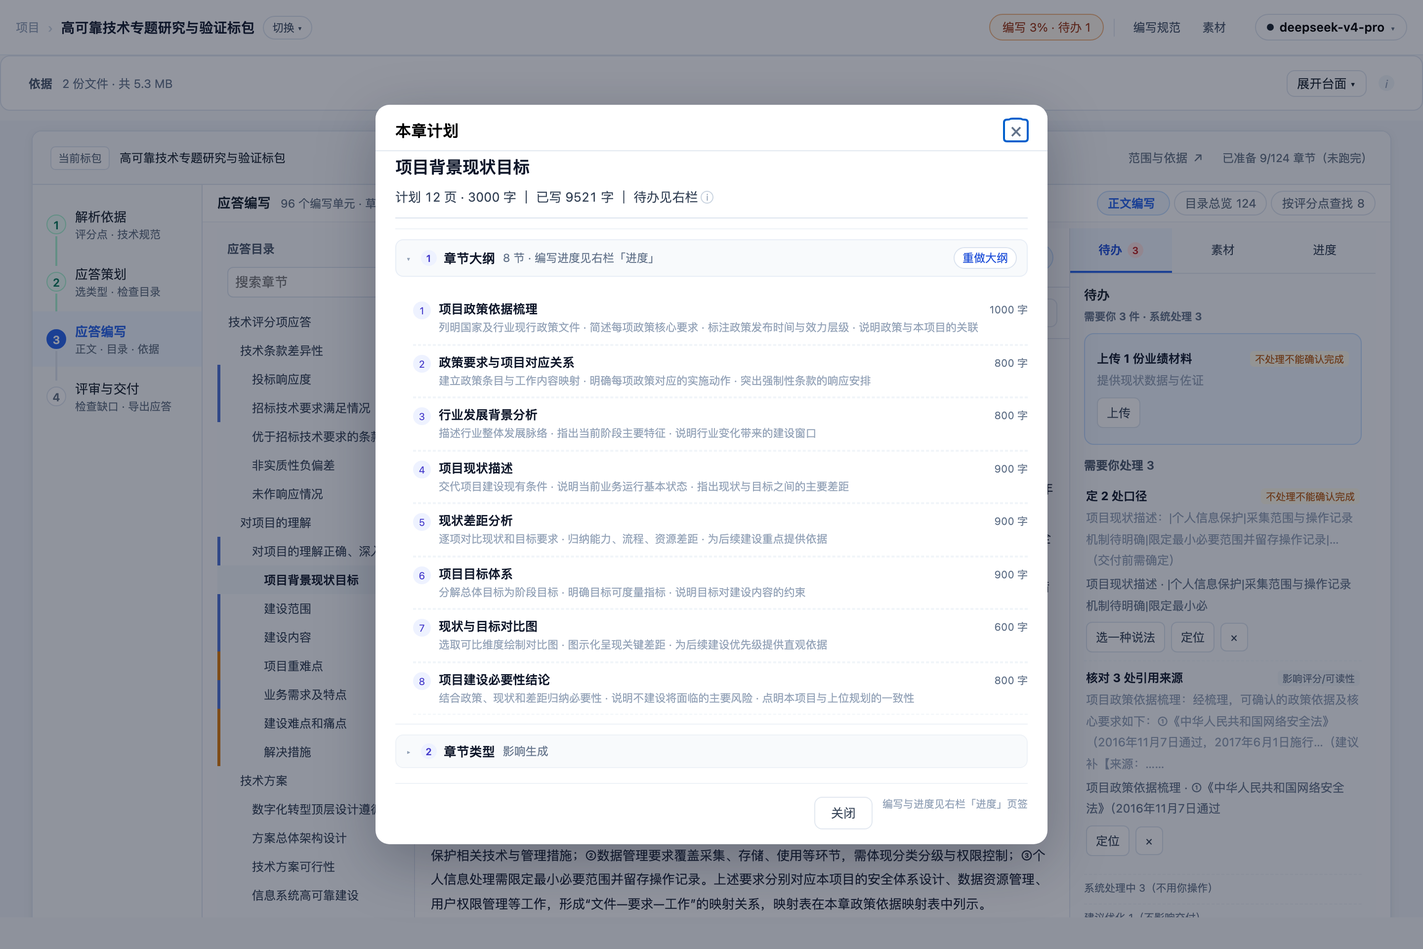
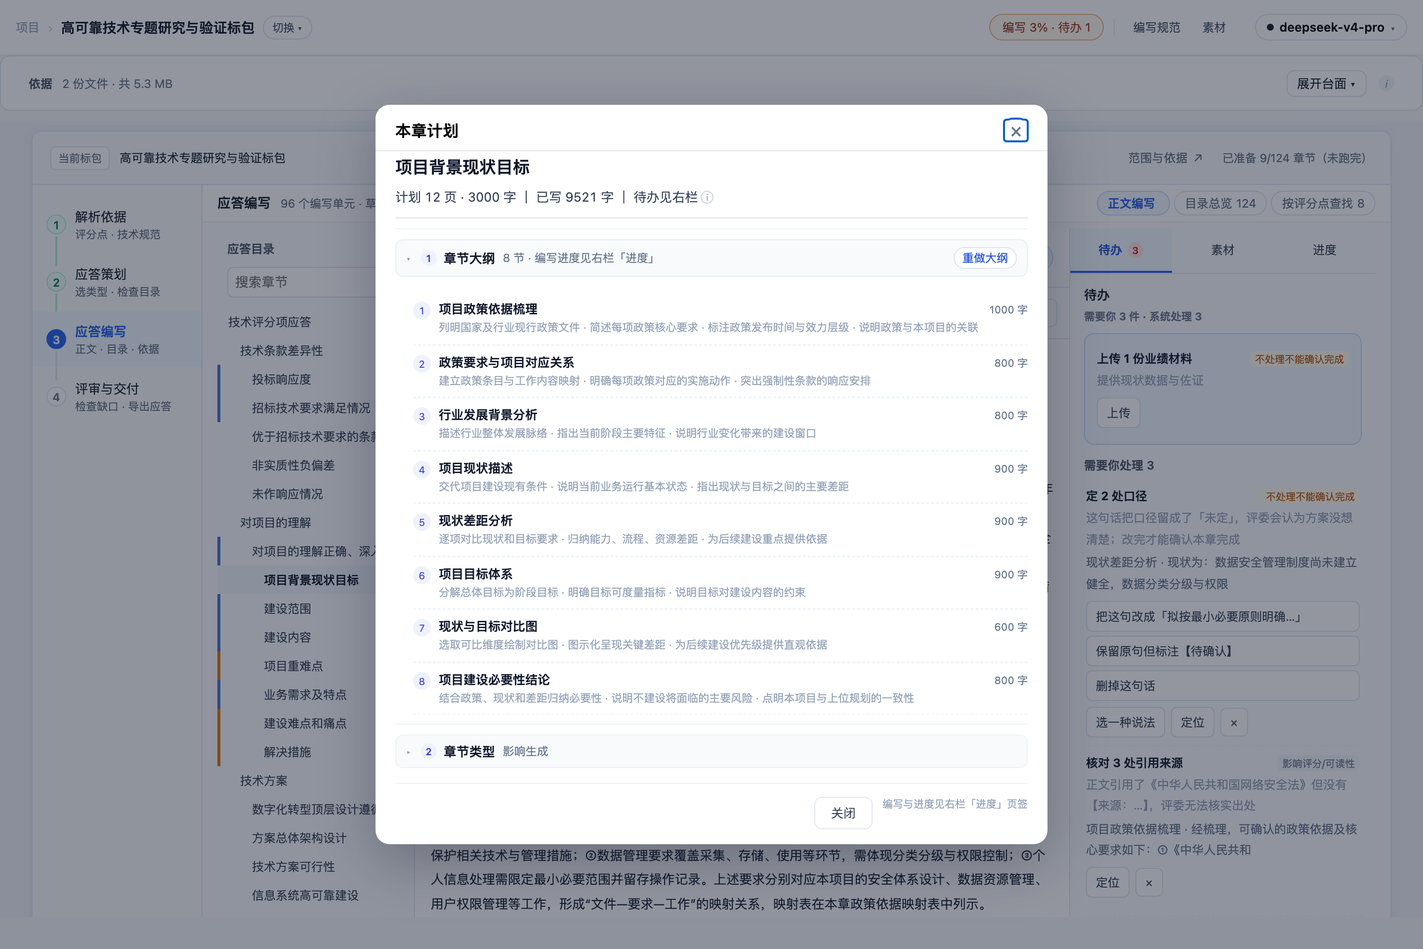
fix(待办可读性): 系统任务说清"现在就能做"、卡里直接给原句+改法、定位到正文并高亮
用户反馈三点，逐条修：
① 底部提示「系统补 11 条依据（在下次生成时自动处理）」看不懂，不知道为什么必须下次；
② 第一张「上传」看得懂，下面「定 2 处口径」「核对 3 处引用来源」看不懂；
③ 点定位没定位到正文当前位置，看不出这段文字在哪、存在什么问题。

## ① 系统任务改成"现在就能做"
- 「系统补 11 条依据」→「补 11 条依据原文 [现在去查]」
  why 改为：正文引用了这些文件但没取到原文，无法核验条款；点「现在去查」系统逐条检索，
  查到的自动挂到本章，查不到的会告诉你只能由你提供
- 「系统生成表格/图示」→「生成表格「X」[现在生成]」（点击直接打开生成/调整面板）
- 「系统补写」→「补写「X」[现在补写]」（点击立即流式补写该节）
- 「系统统一表述」→「统一 N 处表述 [现在统一]」（点击立即替换并写版本，可撤销）

## ② 卡里直接看到"哪句话、什么问题、怎么改"
- 后端 `decision_items`：**跳过表格行**（不再把单元格拼成"原句"）、补 `sentence`/`section`
  「口径未定」现在给 2~3 个候选：改为「拟按最小必要原则明确…」/ 保留并标【待确认】/ 删掉这句
- 决定卡带上 **原句** + **why**（"这句话把口径留成了未定，评委会认为方案没想清楚；改完才能确认本章完成"）
- 前端把 **3 个候选直接铺在卡上**，点一下就走服务端 `todo/apply`（替换 + 写版本 + 重算）
- 核对卡 why 改为「正文引用了《…》但没有【来源：…】，评委无法核实出处」

## ③ 定位到正文并高亮
- 点「定位」→ 切到**预览**态 → 找到原句所在段落 → 滚动到居中 → **黄色高亮 4 秒**（同时点亮所属小节标题）
- 状态条：「已定位到正文：现状差距分析 · 第 7 段 —— 原句「…」，请改成你选的说法」
- 实测：`hitCount: 1`、`previewVisible: true`、状态条含段号与原句

## 验证
后端 1009 passed · 界面 54/54（v389）

Changed region(s): [[0.75, 0.5312, 0.9688, 0.9375]]

diff --git a/frontend/assets/mode-outline.js b/frontend/assets/mode-outline.js
@@ -2,9 +2,9 @@
    抽成模块的目的：两段内联脚本有 90 个同名顶层标识符 + 18 个重复 DOM id，
    同页拼接必然互相覆盖；各自成为一个模块即各自一个作用域。
    本文件在抽取时**未改任何逻辑**。 */
-import {mountChapterStudio, exportDocument} from './chapter-studio.mjs?v=20261016-v387';
-import { api } from './api.js?v=20261016-v387';
-import { specContentHtml } from './spec-content.mjs?v=20261016-v387';
+import {mountChapterStudio, exportDocument} from './chapter-studio.mjs?v=20261016-v389';
+import { api } from './api.js?v=20261016-v389';
+import { specContentHtml } from './spec-content.mjs?v=20261016-v389';
 // 顶栏（项目名旁边那行「第 N 轮 · ...」）由共享壳 workspace.js 渲染。这里要把它
 // 改成**页面自己的真实状态**：checkpoint 的 stage 在准备中/编写准备完成后都停在
 // outline_review，只看它的话顶栏永远显示"待确认目录"（实测就是这个问题）。
@@ -12,7 +12,7 @@ import { workspace, renderWorkspaceChrome,
          REQUIREMENT_ROLES, SELECTABLE_REQUIREMENT_ROLES, ROLE_LABEL_SHARED, ROLE_HINT_SHARED,
          roleMismatchWarning, inferRoleFromFilename,
          uiAlert, uiConfirm,
-       } from './workspace.js?v=20261016-v387';
+       } from './workspace.js?v=20261016-v389';
 import { resolvePackageScope, buildOutlineTree, isOrphanedRun, activeStages, instructionDirty, newOutlineId, outlineSubtreeRange,
          moveOutlineNode, indentOutlineNode, outdentOutlineNode,
          moveManyOutlineNodes, indentManyOutlineNodes, outdentManyOutlineNodes,
@@ -31,7 +31,7 @@ import { resolvePackageScope, buildOutlineTree, isOrphanedRun, activeStages, ins
          // 章节状态投影：素材库 / 方案编辑 / 覆盖矩阵共用同一份判定（不再各算各的）
          chapterStage, chapterBadges, filterChapters, chapterFilterCounts,
          CHAPTER_STAGE_LABELS, evidenceByChapter, expandVisibleWithAncestors
-       } from './workspace-model.mjs?v=20261016-v387';
+       } from './workspace-model.mjs?v=20261016-v389';
 
 const params = new URLSearchParams(location.search);
 // projectId **只取数字部分**：链接被误写成 `?projectId=19**(Cmd+Shift+R)`（连带说明文字）
@@ -180,7 +180,7 @@ document.head.insertAdjacentHTML('beforeend', `<style>
 // 左栏章节树：行标记与「方案编辑」共用一份（2026-10-13 左栏归一）。
 // 此前两侧各拼一套（.ot-row / .doc-outline-item），数据投影虽已共用，
 // 但标记重复维护会漂移（workspace-model.mjs 注释里记着 "#undefined" 那次）。
-import { chapterNode, chapterBadgesHtml as sharedBadgesHtml } from './chapter-tree.mjs?v=20261016-v387';
+import { chapterNode, chapterBadgesHtml as sharedBadgesHtml } from './chapter-tree.mjs?v=20261016-v389';
 const blocksEmpty = document.getElementById('blocks-empty');
 const sidebarToc  = document.getElementById('sidebar-toc');
 const ringFill    = document.getElementById('ring-fill');

diff --git a/frontend/workbench.html b/frontend/workbench.html
@@ -4,7 +4,7 @@
     <meta charset="UTF-8" />
     <meta name="viewport" content="width=device-width, initial-scale=1.0" />
     <title>智能应标 · 材料撰写</title>
-    <link rel="stylesheet" href="./assets/styles.css?v=20261016-v387" />
+    <link rel="stylesheet" href="./assets/styles.css?v=20261016-v389" />
     <style>
       /* Outline pane */
       .workspace-shell .outline-pane {
@@ -2055,7 +2055,7 @@
     </style>
     <!-- Markdown 渲染（用于预览模式） -->
     <script src="https://cdn.jsdelivr.net/npm/marked@12.0.0/marked.min.js"></script>
-  <link rel="stylesheet" href="./assets/workspace.css?v=20261016-v387" />
+  <link rel="stylesheet" href="./assets/workspace.css?v=20261016-v389" />
   </head>
   <body>
   <script>
@@ -2500,18 +2500,18 @@
       </main>
     </div>
 
-    <script type="module" src="./assets/workbench.js?v=20261016-v387"></script>
+    <script type="module" src="./assets/workbench.js?v=20261016-v389"></script>
     <script type="module">
-      import { GenerateSession } from './assets/generate-session.js?v=20261016-v387';
-      import { initContextPanel } from './assets/context-panel.js?v=20261016-v387';
-      import { api } from './assets/api.js?v=20261016-v387';
-      import { request as workspaceRequest, refreshWorkspace, workspace, confirmChapterAction } from './assets/workspace.js?v=20261016-v387';
+      import { GenerateSession } from './assets/generate-session.js?v=20261016-v389';
+      import { initContextPanel } from './assets/context-panel.js?v=20261016-v389';
+      import { api } from './assets/api.js?v=20261016-v389';
+      import { request as workspaceRequest, refreshWorkspace, workspace, confirmChapterAction } from './assets/workspace.js?v=20261016-v389';
       // 提炼字段枚举 + 素材依据的**渲染片段**与 project-init 共用（见 workspace-model.mjs 注释）：
       // 性质徽标与出处行的实现在那边只有一份，两个页面不再各写一套（曾经因此漂移出
       // "每行显示 #undefined"）。
       import { CONSTRAINT_LEVELS, constraintLevelLabel,
                evidenceKindBadgeHtml, evidenceSourceLineHtml, evidenceSnippet,
-               chapterStage, CHAPTER_STAGE_LABELS } from './assets/workspace-model.mjs?v=20261016-v387';
+               chapterStage, CHAPTER_STAGE_LABELS } from './assets/workspace-model.mjs?v=20261016-v389';
       initContextPanel();
 
       // 素材抽屉：默认收起（写作时右栏就是正文本身），点工具栏「素材 n ▸」打开；
@@ -5575,6 +5575,6 @@
       })();
     })();
     </script>
-  <script type="module" src="./assets/workspace.js?v=20261016-v387"></script>
+  <script type="module" src="./assets/workspace.js?v=20261016-v389"></script>
   </body>
 </html>

diff --git a/frontend/three-mode.html b/frontend/three-mode.html
@@ -4,9 +4,9 @@
     <meta charset="UTF-8" />
     <meta name="viewport" content="width=device-width, initial-scale=1.0" />
     <title>AiBidding · Workbench Init State</title>
-    <link rel="stylesheet" href="./assets/response-outline.css?v=20261016-v387" />
-    <link rel="stylesheet" href="./assets/chapter-studio.css?v=20261016-v387" />
-    <link rel="stylesheet" href="./assets/styles.css?v=20261016-v387" />
+    <link rel="stylesheet" href="./assets/response-outline.css?v=20261016-v389" />
+    <link rel="stylesheet" href="./assets/chapter-studio.css?v=20261016-v389" />
+    <link rel="stylesheet" href="./assets/styles.css?v=20261016-v389" />
     <style>
 /* ── 三栏布局 ── */
 .init-layout {
@@ -3350,8 +3350,8 @@ body[data-view="matching"] .match-detail { display: block; }
   body[data-view="editor"] .ws-editor-layout { flex: 1 1 auto; min-height: 0; }
 
 </style>
-  <link rel="stylesheet" href="./assets/workspace.css?v=20261016-v387" />
-  <link rel="stylesheet" href="./assets/ui.css?v=20261016-v387" />   <!-- 组件最小集：最后加载以统一历史类名 -->
+  <link rel="stylesheet" href="./assets/workspace.css?v=20261016-v389" />
+  <link rel="stylesheet" href="./assets/ui.css?v=20261016-v389" />   <!-- 组件最小集：最后加载以统一历史类名 -->
   </head>
   <body data-view="outline" data-modes="outline,matching,editor">
     <div class="workspace-shell">
@@ -4062,16 +4062,16 @@ body[data-view="matching"] .match-detail { display: block; }
         if (skel) skel.hidden = true;
       }, 6000);
     </script>
-    <script type="module" src="./assets/workbench.js?v=20261016-v387"></script>
-    <script type="module" src="./assets/mode-dispatch.js?v=20261016-v387"></script>
+    <script type="module" src="./assets/workbench.js?v=20261016-v389"></script>
+    <script type="module" src="./assets/mode-dispatch.js?v=20261016-v389"></script>
     <!-- 动态 import：失败可捕获并上报（静态 import 失败无法捕获，会让整页静默不执行） -->
     <script type="module">
-      for (const mod of ['./assets/mode-outline.js?v=20261016-v387',
-                        './assets/mode-editor.js?v=20261016-v387']) {
+      for (const mod of ['./assets/mode-outline.js?v=20261016-v389',
+                        './assets/mode-editor.js?v=20261016-v389']) {
         try { await import(mod); }
         catch (err) { window.__bootErrors.push(`模块加载失败 ${mod}：${err?.message || err}`); }
       }
     </script>
-  <script type="module" src="./assets/workspace.js?v=20261016-v387"></script>
+  <script type="module" src="./assets/workspace.js?v=20261016-v389"></script>
   </body>
 </html>

diff --git a/frontend/project-init.html b/frontend/project-init.html
@@ -4,7 +4,7 @@
     <meta charset="UTF-8" />
     <meta name="viewport" content="width=device-width, initial-scale=1.0" />
     <title>AiBidding · Workbench Init State</title>
-    <link rel="stylesheet" href="./assets/styles.css?v=20261016-v387" />
+    <link rel="stylesheet" href="./assets/styles.css?v=20261016-v389" />
     <style>
 /* ── 三栏布局 ── */
 .init-layout {
@@ -889,7 +889,7 @@ body[data-view="matching"] .match-detail { display: block; }
   background: #eff6ff;
 }
     </style>
-  <link rel="stylesheet" href="./assets/workspace.css?v=20261016-v387" />
+  <link rel="stylesheet" href="./assets/workspace.css?v=20261016-v389" />
   </head>
   <body data-view="outline">
   <script>
@@ -1097,14 +1097,14 @@ body[data-view="matching"] .match-detail { display: block; }
     </div>
 
     <script type="module">
-import { api } from './assets/api.js?v=20261016-v387';
+import { api } from './assets/api.js?v=20261016-v389';
 // 顶栏（项目名旁边那行「第 N 轮 · ...」）由共享壳 workspace.js 渲染。这里要把它
 // 改成**页面自己的真实状态**：checkpoint 的 stage 在提炼中/提炼完成后都停在
 // outline_review，只看它的话顶栏永远显示"待确认目录"（实测就是这个问题）。
 import { workspace, renderWorkspaceChrome,
          REQUIREMENT_ROLES, ROLE_LABEL_SHARED, ROLE_HINT_SHARED,
          roleMismatchWarning, inferRoleFromFilename,
-       } from './assets/workspace.js?v=20261016-v387';
+       } from './assets/workspace.js?v=20261016-v389';
 import { buildOutlineTree, isOrphanedRun, activeStages, instructionDirty, newOutlineId, outlineSubtreeRange,
          moveOutlineNode, indentOutlineNode, outdentOutlineNode,
          removeOutlineSubtree, insertSiblingAfter, insertChildOf,
@@ -1118,7 +1118,7 @@ import { buildOutlineTree, isOrphanedRun, activeStages, instructionDirty, newOut
          // 章节状态投影：素材库 / 方案编辑 / 覆盖矩阵共用同一份判定（不再各算各的）
          chapterStage, chapterBadges, filterChapters, chapterFilterCounts,
          CHAPTER_STAGE_LABELS, evidenceByChapter, expandVisibleWithAncestors
-       } from './assets/workspace-model.mjs?v=20261016-v387';
+       } from './assets/workspace-model.mjs?v=20261016-v389';
 
 const params = new URLSearchParams(location.search);
 const projectId = params.get('projectId');
@@ -4957,6 +4957,6 @@ bindMatchDetailActions();
   });
 })();
     </script>
-  <script type="module" src="./assets/workspace.js?v=20261016-v387"></script>
+  <script type="module" src="./assets/workspace.js?v=20261016-v389"></script>
   </body>
 </html>

diff --git a/frontend/assets/mode-editor.js b/frontend/assets/mode-editor.js
@@ -2,13 +2,13 @@
    抽成模块的目的：两段内联脚本有 90 个同名顶层标识符 + 18 个重复 DOM id，
    同页拼接必然互相覆盖；各自成为一个模块即各自一个作用域。
    本文件在抽取时**未改任何逻辑**。 */
-import { GenerateSession } from './generate-session.js?v=20261016-v387';
+import { GenerateSession } from './generate-session.js?v=20261016-v389';
 // 左栏章节树：与「要求与大纲 / 素材库」共用一份行标记（2026-10-13 左栏归一）
-import { chapterNode, renderChapterTree } from './chapter-tree.mjs?v=20261016-v387';
-import { initContextPanel } from './context-panel.js?v=20261016-v387';
-import { api } from './api.js?v=20261016-v387';
+import { chapterNode, renderChapterTree } from './chapter-tree.mjs?v=20261016-v389';
+import { initContextPanel } from './context-panel.js?v=20261016-v389';
+import { api } from './api.js?v=20261016-v389';
 import { request as workspaceRequest, refreshWorkspace, workspace, confirmChapterAction ,
-         uiAlert, uiConfirm} from './workspace.js?v=20261016-v387';
+         uiAlert, uiConfirm} from './workspace.js?v=20261016-v389';
 
 // ── 本章要求 bar 的应答条目缓存 ──────────────────────────────
 // 必须**声明在模块最前面**：它原本声明在文件中部，而模块之间存在循环依赖
@@ -21,7 +21,7 @@ let responseItemsByBlock = {};
 // "每行显示 #undefined"）。
 import { CONSTRAINT_LEVELS, constraintLevelLabel,
          evidenceKindBadgeHtml, evidenceSourceLineHtml, evidenceSnippet,
-         chapterStage, CHAPTER_STAGE_LABELS } from './workspace-model.mjs?v=20261016-v387';
+         chapterStage, CHAPTER_STAGE_LABELS } from './workspace-model.mjs?v=20261016-v389';
 initContextPanel();
 
 // 素材抽屉：默认收起（写作时右栏就是正文本身），点工具栏「素材 n ▸」打开；

diff --git a/frontend/project-intake.html b/frontend/project-intake.html
@@ -3,7 +3,7 @@
 <head>
   <meta charset="utf-8"><meta name="viewport" content="width=device-width,initial-scale=1">
   <title>项目准备 · 智能应标</title>
-  <link rel="stylesheet" href="/assets/styles.css?v=20261016-v387">
+  <link rel="stylesheet" href="/assets/styles.css?v=20261016-v389">
   <style>
     body{margin:0;background:#f7f8fa;color:#17202a;font-family:Inter,"PingFang SC",sans-serif}
     .shell{max-width:1120px;margin:auto;padding:28px}.top{display:flex;justify-content:space-between;align-items:center;margin-bottom:22px}
@@ -32,4 +32,4 @@
 </main>
 <dialog id="package-editor"><form id="package-form"><h2>编辑投标对象</h2><p class="hint">仅在识别有误时修改；名称可留空。</p><input id="edit-id" type="hidden"><label>对象类型<select id="edit-kind"><option value="package">标包</option><option value="section">标段</option><option value="target">独立标的</option></select></label><label>所属标的编号<input id="edit-target"></label><label>标包 / 标段编号<input id="edit-code"></label><label>完整名称<input id="edit-name" maxlength="300"></label><div class="actions"><button type="button" id="cancel-edit">取消</button><button class="primary" type="submit">保存</button></div></form></dialog>
 <dialog id="merge-dialog"><form id="merge-form"><h2>合并重复候选</h2><p class="hint">将当前候选的证据合并到以下保留项。已有运行成果的候选不能合并，保留项需要重新核验。</p><input id="merge-source" type="hidden"><label>保留的投标对象<select id="merge-destination"></select></label><div class="actions"><button type="button" id="cancel-merge">取消</button><button type="submit" class="primary">确认合并</button></div></form></dialog>
-<script type="module" src="/assets/intake.js?v=20261016-v387"></script></body></html>
+<script type="module" src="/assets/intake.js?v=20261016-v389"></script></body></html>

diff --git a/frontend/review.html b/frontend/review.html
@@ -4,16 +4,16 @@
     <meta charset="UTF-8" />
     <meta name="viewport" content="width=device-width, initial-scale=1.0" />
     <title>AiBidding · 质量检查</title>
-    <link rel="stylesheet" href="./assets/styles.css?v=20261016-v387" />
-    <link rel="stylesheet" href="./assets/review.css?v=20261016-v387" />
-  <link rel="stylesheet" href="./assets/workspace.css?v=20261016-v387" />
+    <link rel="stylesheet" href="./assets/styles.css?v=20261016-v389" />
+    <link rel="stylesheet" href="./assets/review.css?v=20261016-v389" />
+  <link rel="stylesheet" href="./assets/workspace.css?v=20261016-v389" />
   <style>
     /* 返回作业面板：与项目名同级的次级入口 */
     .back-to-panel { margin-left:10px; font-size:12.5px; color:var(--muted); text-decoration:none;
       border:1px solid var(--line); border-radius:8px; padding:3px 10px; }
     .back-to-panel:hover { color:var(--text); background:var(--bg-2); }
   </style>
-  <link rel="stylesheet" href="./assets/ui.css?v=20261016-v387" />   <!-- 组件最小集：最后加载以统一历史类名 -->
+  <link rel="stylesheet" href="./assets/ui.css?v=20261016-v389" />   <!-- 组件最小集：最后加载以统一历史类名 -->
   </head>
   <body>
     <div class="workspace-shell">
@@ -96,7 +96,7 @@
       </main>
     </div>
 
-    <script type="module" src="./assets/review.js?v=20261016-v387"></script>
-  <script type="module" src="./assets/workspace.js?v=20261016-v387"></script>
+    <script type="module" src="./assets/review.js?v=20261016-v389"></script>
+  <script type="module" src="./assets/workspace.js?v=20261016-v389"></script>
   </body>
 </html>

diff --git a/frontend/assets/workbench.js b/frontend/assets/workbench.js
@@ -1,12 +1,12 @@
-import {workspace, subscribe, refreshWorkspace, workspaceUrl, confirmChapterAction, openDialog, showHistory, statusLabels, esc} from './workspace.js?v=20261016-v387';
+import {workspace, subscribe, refreshWorkspace, workspaceUrl, confirmChapterAction, openDialog, showHistory, statusLabels, esc} from './workspace.js?v=20261016-v389';
 // 章节状态/依据徽标与「素材库」共用一份投影（同一棵目录树，四个环节都一样）
-import {chapterBadges, parseEvidence} from './workspace-model.mjs?v=20261016-v387';
+import {chapterBadges, parseEvidence} from './workspace-model.mjs?v=20261016-v389';
 // 左栏章节树：**三个模式共用一份**行标记（2026-10-13 归一）。
 // 此前编辑器侧自己拼 `.doc-outline-item`、大纲侧拼 `.ot-row`，是两套实现；
 // 数据投影本就共用（workspace-model），这里把标记也收敛掉。
 // 行上仍保留 `doc-outline-item` 类与 data-block-id 属性，兼容 mode-editor.js 里
 // 既有的 10 处选择器（改动面最小化）。
-import {chapterNode, renderChapterTree, chapterBadgesHtml} from './chapter-tree.mjs?v=20261016-v387';
+import {chapterNode, renderChapterTree, chapterBadgesHtml} from './chapter-tree.mjs?v=20261016-v389';
 // 左栏树的**唯一宿主**：由 mode-dispatch 在模式切换时把 #blocks-list 搬到当前模式的
 // 左栏位置。归一前这里是 `.doc-outline`，与大纲侧 `#blocks-list` 各渲一棵（实测
 // .ot-node 有 120 个 = 两棵各 60）。动态解析而不是加载时捕获，就是为了让宿主可搬。

diff --git a/frontend/projects.html b/frontend/projects.html
@@ -4,7 +4,7 @@
     <meta charset="UTF-8" />
     <meta name="viewport" content="width=device-width, initial-scale=1.0" />
     <title>智能应标 · 项目列表</title>
-    <link rel="stylesheet" href="./assets/styles.css?v=20261016-v387" />
+    <link rel="stylesheet" href="./assets/styles.css?v=20261016-v389" />
     <style>
       /* ── 页头 ── */
       .app-header {
@@ -613,7 +613,7 @@
       .btn-api-save:disabled { opacity: 0.45; cursor: default; }
       .btn-api-save:not(:disabled):hover { opacity: 0.88; }
     </style>
-    <link rel="stylesheet" href="./assets/ui.css?v=20261016-v387" />   <!-- 组件最小集：最后加载以统一历史类名 -->
+    <link rel="stylesheet" href="./assets/ui.css?v=20261016-v389" />   <!-- 组件最小集：最后加载以统一历史类名 -->
 </head>
   <body>
     <!-- 页头 -->
@@ -745,7 +745,7 @@
     </div>
 
     <script type="module">
-      import { api } from './assets/api.js?v=20261016-v387';
+      import { api } from './assets/api.js?v=20261016-v389';
 
       // ── 状态 ──
       const reqFiles = []; // {file, name, size, ext}

diff --git a/frontend/diff-review.html b/frontend/diff-review.html
@@ -4,8 +4,8 @@
     <meta charset="UTF-8" />
     <meta name="viewport" content="width=device-width, initial-scale=1.0" />
     <title>AiBidding · Diff Review</title>
-    <link rel="stylesheet" href="./assets/styles.css?v=20261016-v387" />
-  <link rel="stylesheet" href="./assets/workspace.css?v=20261016-v387" />
+    <link rel="stylesheet" href="./assets/styles.css?v=20261016-v389" />
+  <link rel="stylesheet" href="./assets/workspace.css?v=20261016-v389" />
   </head>
   <body>
     <div class="workspace-shell">
@@ -98,7 +98,7 @@
     </div>
 
     <script type="module">
-      import { api } from './assets/api.js?v=20261016-v387';
+      import { api } from './assets/api.js?v=20261016-v389';
 
       const params    = new URLSearchParams(location.search);
       const projectId = params.get('projectId');
@@ -326,6 +326,6 @@
 
       loadRevisions();
     </script>
-  <script type="module" src="./assets/workspace.js?v=20261016-v387"></script>
+  <script type="module" src="./assets/workspace.js?v=20261016-v389"></script>
   </body>
 </html>

diff --git a/frontend/assets/workspace.js b/frontend/assets/workspace.js
@@ -1,11 +1,11 @@
-import {projectChapters, summarize, statusLabels, stageLabels, activeStages, runtimeStages, isOrphanedRun, isExtractDone, diffHtml, escapeHtml as esc} from './workspace-model.mjs?v=20261016-v387';
+import {projectChapters, summarize, statusLabels, stageLabels, activeStages, runtimeStages, isOrphanedRun, isExtractDone, diffHtml, escapeHtml as esc} from './workspace-model.mjs?v=20261016-v389';
 export {statusLabels, esc};
 // 材料角色体系再导出：project-init 的角色下拉与"分类纠错提示"都从这里取
 export {
   REQUIREMENT_ROLES, SELECTABLE_REQUIREMENT_ROLES, SOURCE_ROLES, ALL_MATERIAL_ROLES,
   ROLE_LABEL as ROLE_LABEL_SHARED, ROLE_HINT as ROLE_HINT_SHARED,
   isRequirementRole, inferRoleFromFilename, roleMismatchWarning,
-} from './material-roles.mjs?v=20261016-v387';
+} from './material-roles.mjs?v=20261016-v389';
 export async function request(url, options) {
   const response = await fetch(url, options);
   const data = await response.json().catch(() => ({}));

diff --git a/frontend/assets/chapter-studio.css b/frontend/assets/chapter-studio.css
@@ -841,3 +841,12 @@ h2.cs-sec-writing, h3.cs-sec-writing, h4.cs-sec-writing { background: #fef3c7 !i
 .cs-task-act:hover { background: #eff6ff; }
 .cs-decide-item { border-top: 1px dashed #eef2f7; padding: 8px 0; }
 .cs-decide-item:first-child { border-top: 0; }
+
+/* 待办 v3：卡内候选 + 定位高亮 */
+.cs-task-opts { display: flex; flex-direction: column; gap: 4px; margin-top: 6px; }
+.cs-task-opt { text-align: left; border: 1px solid #e2e8f0; background: #f8fafc; color: #1e293b;
+  border-radius: 7px; font-size: 11px; padding: 4px 8px; cursor: pointer; }
+.cs-task-opt:hover { border-color: #93c5fd; background: #eff6ff; color: #1d4ed8; }
+.cs-locate-hit { background: #fef08a !important; box-shadow: 0 0 0 2px #facc15 inset; border-radius: 3px;
+  animation: csLocatePulse 1.2s ease-in-out 2; }
+@keyframes csLocatePulse { 0%,100% { background-color: #fef08a; } 50% { background-color: #fde68a; } }
